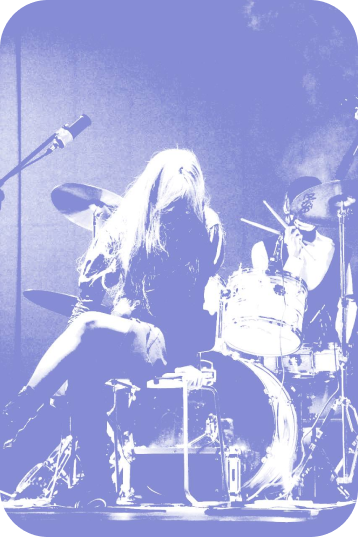
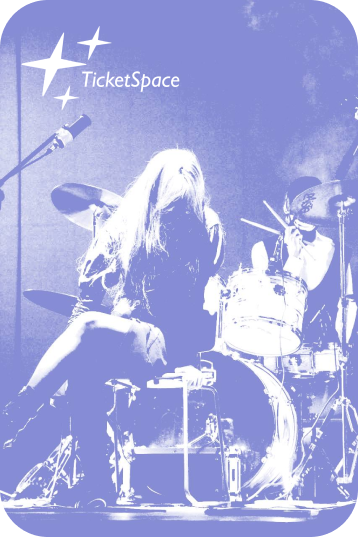
изменения за четверг

Changed region(s): [[0.0615, 0.0596, 0.4916, 0.2086]]

diff --git a/proizvod/userpage/templates/userpage/ticketslist.html b/proizvod/userpage/templates/userpage/ticketslist.html
@@ -15,12 +15,14 @@
     <div class="main-container">
             <div class="search-box">
                 <div class="logo">
-                  <img src="/static/mainpage/img/logo_main.PNG" alt="TicketSpace Logo">
+                  <a href="/">
+                    <img src="/static/mainpage/img/logo_main.PNG" alt="TicketSpace Logo">
+                  </a>
                 </div>
                 <div class="search-bar">
-                 <form method="POST" action="{% url 'search' %}">
+                 <form method="POST" action="{% url 'ticket_search' %}">
                         {% csrf_token %}
-                    <input type="text" name="search" placeholder="Поиск" value="{{ request.GET.search }}">
+                    <input type="text" name="ticket_search" placeholder="Поиск" value="{{ request.POST.ticket_search }}">
                     <button type="submit">
                         <img src="/static/eventpage/img/поиск лого.PNG" alt="Search">
                     </button>
@@ -55,17 +57,13 @@
                     </div>
                 {% endfor %}
             {% else %}
-                <p>У вас нет купленных билетов</p>
+                <a href="{% url 'main_page' %}">
+                  <p>Нет билетов!</p>
+            </a>
             {% endif %}
     </div>
     </div>
 </body>
-<script>
-    function handleClick(eventName) {
-    alert(`Вы выбрали билет на: ${eventName}`);
-}
-</script>
-
 <script>
     // Получаем элементы
     const citySelect = document.querySelector('.city-select');

diff --git a/proizvod/eventpage/templates/eventpage/buy.html b/proizvod/eventpage/templates/eventpage/buy.html
@@ -22,10 +22,17 @@
     <div class="ticket">
         <div class="ticket-right">
             <div class="ticket-image">
+                {% if ticket.category == 'Music event' %}
                 <img src="/static/eventpage/img/music.png" alt="Ticket Image">
-            </div>
-            <div class="ticket-logo">
-                <img src="/static/eventpage/img/logo.png" alt="TicketSpace Logo">
+                {% elif ticket.category == 'Competition' %}
+                <img src="/static/eventpage/img/competition.png" alt="Ticket Image">
+                {% elif ticket.category == 'ЧТО ГДЕ КОГДА' %}
+                <img src="/static/eventpage/img/mind.png" alt="Ticket Image">
+                {% elif ticket.category == 'AITUSA event' %}
+                <img src="/static/eventpage/img/AITUSA.png" alt="Ticket Image">
+                {% else %}
+                <img src="/static/eventpage/img/party.png" alt="Ticket Image">
+                {% endif %}
             </div>
             <div class="ticket-university">
                 <img src="/static/eventpage/img/AITU.png" alt="Astana University Logo">

diff --git a/proizvod/eventpage/static/eventpage/css/ticket.css b/proizvod/eventpage/static/eventpage/css/ticket.css
@@ -77,28 +77,25 @@ body::before {
 .ticket-info {
     position: absolute;
     left: 48%;
-    top: 21%;
+    top: 24%;
     text-align: left;
 
 }
 p {
- margin: 10% 0;
+ margin: 8% 0;
  font-size: 28px;
  font-family: 'Candara';
 }
 
 .ticket-image {
     position: absolute;
-    top: 0;
-    left: 1%;
+    top: 1px;
+    left: 3px;
 }
 
-.ticket-logo {
-    width: 235px;
-    height: auto;
-    position: absolute;
-    top: 0;
-    left: 0;
+.ticket-image img {
+    max-width: 370px;
+    max-height: 539px;
 }
 
 .ticket-qr-code {

diff --git a/proizvod/userpage/static/userpage/css/ticketlist.css b/proizvod/userpage/static/userpage/css/ticketlist.css
@@ -23,7 +23,7 @@ body {
     display: flex;
     justify-content: center;
     align-items: center;
-    height: 100vh;
+    min-height: 100vh;
 }
 
 .main-container {
@@ -252,6 +252,11 @@ body {
 .tickets-container {
   width: 80%; /* Совпадает с шириной контейнера поиска */
   max-width: 1200px;
+}
+
+.tickets-container a {
+ text-decoration: none;
+ color: white;
 }
 
 .tickets-container p {

diff --git a/proizvod/figuration/static/figuration/css/figure.css b/proizvod/figuration/static/figuration/css/figure.css
@@ -12,7 +12,7 @@ h1, h2 {
     font-family: 'Hagrid';
   }
   html, body {
-    height: 100%;
+    min-height: 100%;
     margin: 0;
     font-family: 'Candara';
     color: white;

diff --git a/proizvod/figuration/static/figuration/css/almaty.css b/proizvod/figuration/static/figuration/css/almaty.css
@@ -12,7 +12,7 @@
     font-family: 'Hagrid';
   }
   html, body {
-    height: 100%;
+    min-height: 100%;
     margin: 0;
     font-family: 'Candara';
     color: white;

diff --git a/proizvod/figuration/static/figuration/css/astana.css b/proizvod/figuration/static/figuration/css/astana.css
@@ -12,7 +12,7 @@
     font-family: 'Hagrid';
   }
   html, body {
-    height: 100%;
+    min-height: 100%;
     margin: 0;
     font-family: 'Candara';
     color: white;

diff --git a/proizvod/eventpage/views.py b/proizvod/eventpage/views.py
@@ -5,6 +5,7 @@ from django.db import connection
 from django.urls import reverse
 from django.http import Http404
 from django.http import JsonResponse
+import pyqrcode
 
 
 # проверка авторизации пользователя (для ограничения отображения окон)
@@ -71,11 +72,12 @@ def buy_ticket(request, ticket_id):
     try:
         with connection.cursor() as cursor:
             cursor.execute(
-                """SELECT ticket_id, address, event_name, event_date, time
-                FROM Tickets 
-                INNER JOIN Events USING(event_id)
-                WHERE ticket_id = %s""",
-                [ticket_id]
+                """SELECT ticket_id, address, event_name, event_date, time, category
+                    FROM Tickets 
+                    INNER JOIN Events ON Tickets.event_id = Events.event_id
+                    INNER JOIN Categories ON Events.category_id = Categories.category_id
+                    WHERE ticket_id = %s""",
+                    [ticket_id]
             )
             ticket = cursor.fetchone()
 
@@ -88,7 +90,8 @@ def buy_ticket(request, ticket_id):
                 'place': ticket[1],
                 'event_name': ticket[2],
                 'event_date': ticket[3],
-                'time': ticket[4]
+                'time': ticket[4],
+                'category': ticket[5]
             }
     except Exception as e:
         print(f"Произошла ошибка: {str(e)}")
@@ -188,5 +191,34 @@ def process_order(request, event_id):
             ticket_id = get_or_create_ticket(event_id, user_id)
             return redirect('buy', ticket_id=ticket_id)
         except Exception as e:
-            messages.error(request, f"Произошла ошибка: {str(e)}")
+            print(f"Произошла ошибка: {str(e)}")
             return redirect('event', event_id=event_id)
+
+
+
+# === Много функций для генерирования QR кода на билетах ===
+
+# Генерация
+def generate_qr_code_from_sql(query_result, file_path):
+    qr = pyqrcode.create(query_result)
+    qr.png(file_path, scale=6)
+    return file_path
+
+
+def get_query_result(request):
+    user_id = request.session.get('user_id')
+    with connection.cursor() as cursor:
+        cursor.execute(
+            """SELECT user_id, user_mail, event_name, ticket_id, price 
+            FROM Tickets 
+            JOIN Customers USING (user_id)
+            JOIN Events USING (event_id)
+            WHERE user_id = %s""",
+            [user_id]
+        )
+        query_result = cursor.fetchone()[0]
+
+        qr_file_path = "/static/eventpage/img/generated_qr.png"
+        generate_qr_code_from_sql(query_result, qr_file_path)
+
+

diff --git a/proizvod/userpage/views.py b/proizvod/userpage/views.py
@@ -355,5 +355,25 @@ def show_list(request):
     return render(request, 'userpage\\ticketslist.html', {'tickets': tickets})
 
 
-
+# поиск по билетам
+def ticket_search(request):
+    ticket_search = request.POST.get('ticket_search')
+    user_id = request.session.get('user_id')
+    if not ticket_search:
+        return redirect('mytickets')
+    try:
+        with connection.cursor() as cursor:
+            cursor.execute("""
+                SELECT ticket_id, price, event_name, event_date FROM Tickets
+                LEFT JOIN Events USING(event_id)
+                WHERE event_name ILIKE %s and user_id = %s;
+            """, [f"%{ticket_search}%", user_id])
+            tickets = cursor.fetchall()
+            tickets = [
+                {'ticket_id': row[0], 'price': 'Free' if int(row[1]) == 0 else row[1], 'event_name': row[2],
+                 'event_date': row[3]}
+                for row in tickets]
+    except Exception:
+        tickets = []
+    return render(request, 'userpage\\ticketslist.html', {'tickets': tickets})
 

diff --git a/db.py b/db.py
@@ -67,6 +67,16 @@ try:
             
             ALTER TABLE Tickets
             ADD CONSTRAINT chk_price CHECK (price >= 0);
+                        
+            ALTER TABLE Events
+            ADD CONSTRAINT unique_event_id UNIQUE (event_id);
+            
+            ALTER TABLE Tickets
+            ADD CONSTRAINT unique_ticket_id UNIQUE (ticket_id);
+            
+            CREATE INDEX find_category_name ON Categories (LOWER(category));
+            
+            CREATE INDEX find_organizer_name ON Organizers (LOWER(name));
             
             INSERT INTO Categories(category)
             VALUES ('ЧТО ГДЕ КОГДА'),

diff --git a/proizvod/userpage/urls.py b/proizvod/userpage/urls.py
@@ -5,5 +5,6 @@ urlpatterns = [
     path('log/', views.logout_user, name='log'),
     path('delete/', views.delete_user_info, name='delete'),
     path('add/', views.add_event, name='add'),
-    path('mytickets/', views.show_list, name='mytickets')
+    path('mytickets/', views.show_list, name='mytickets'),
+    path('ticket_search/', views.ticket_search, name='ticket_search')
 ]
